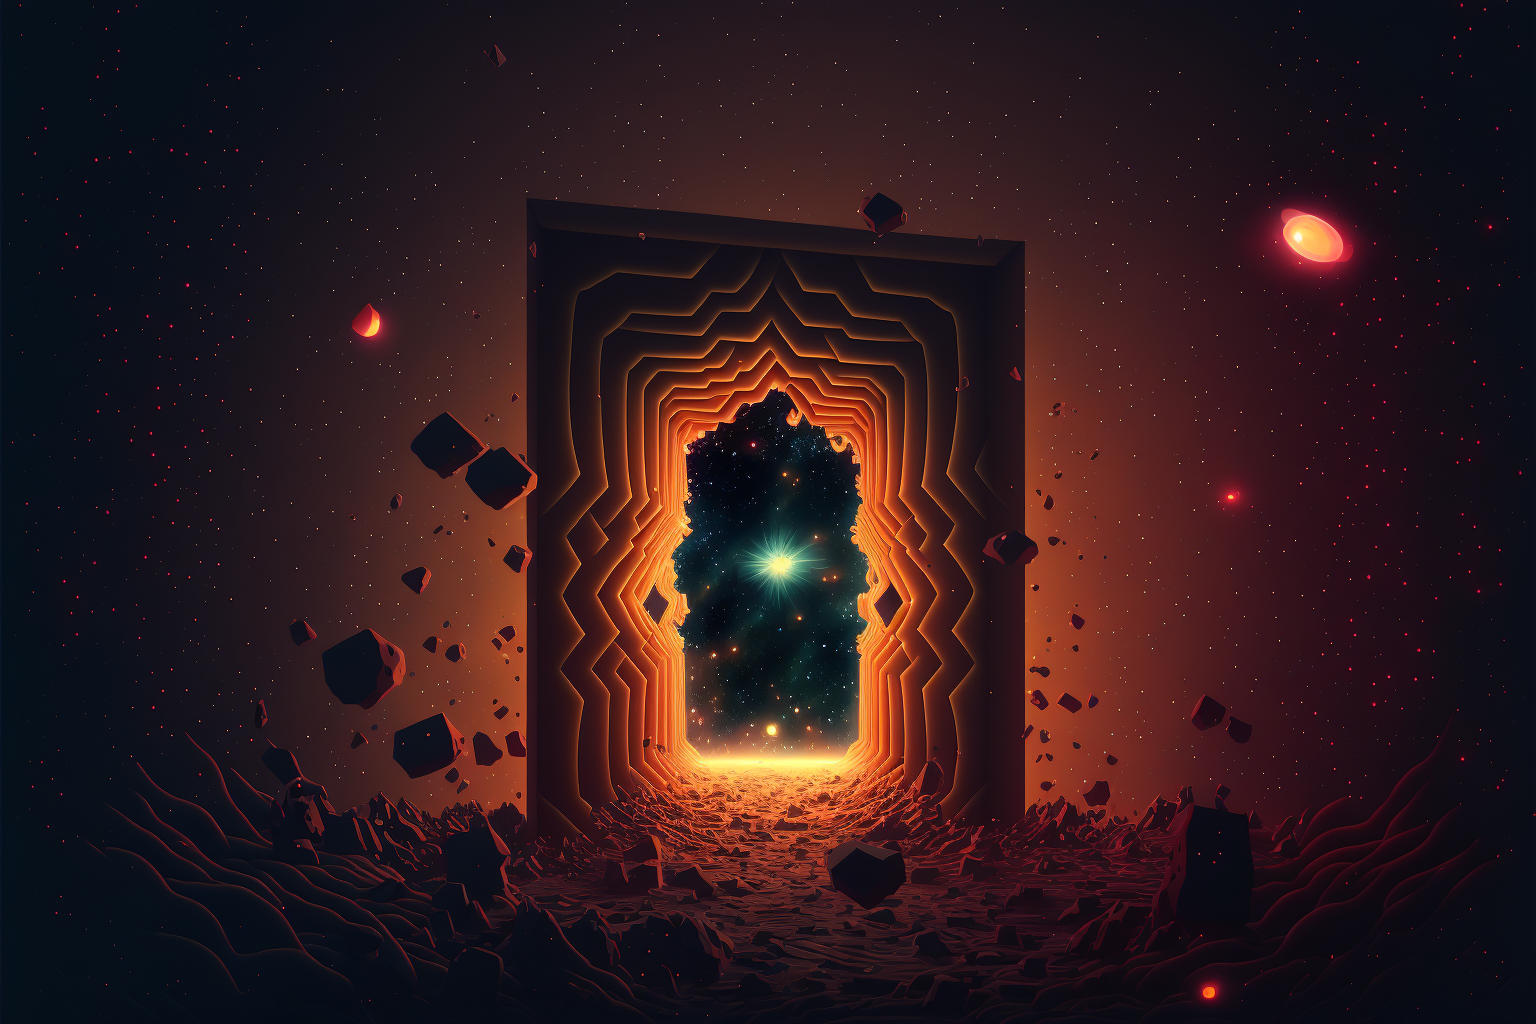
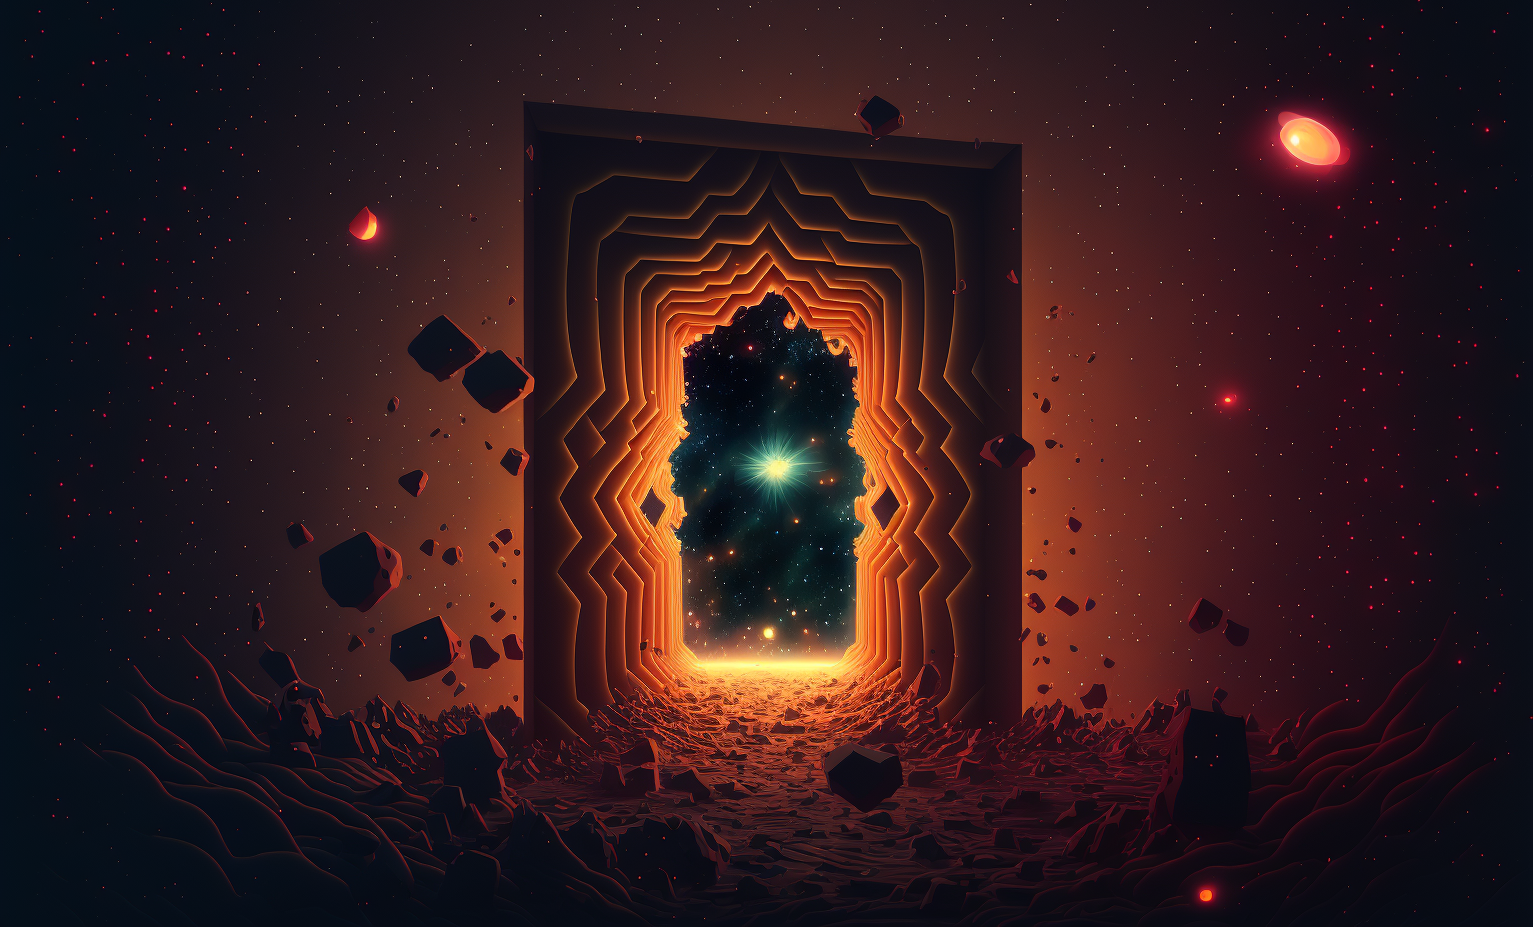
Update

diff --git a/M.A.S.A-Mostly Aimless Space Agency/js/index_js.js b/M.A.S.A-Mostly Aimless Space Agency/js/index_js.js
@@ -6,9 +6,9 @@ function redirect_Page () {
   }, 1500);
 }
 function click_keyhole(){ 
-  document.getElementById("gate_click").innerHTML="<img src=\"res\\rocket.png\" id=\"keyhole_transition\" style=\"width: 7%; margin-left: -34px; margin-top: 5px;\"><style>.main_hero{margin: -15px;height: 900px;width: 1362px;background-color: black;background-size: cover;}#keyhole_transition{    animation: pullout 1s 0.2s 1;} @keyframes pullout {0%{}50%{margin: -25%;width: 20%;}100%{margin-top: -250%; margin-left: 80%;width: 30%;}}</style>"
+  document.getElementById("gate_click").innerHTML="<img src=\"res\\rocket.png\" id=\"keyhole_transition\" style=\"width: 7%; margin-left: -34px; margin-top: 5px;\"><style>.main_hero{background-image:url(css/Entry.png);height: 100vh; background-size: cover;}#keyhole_transition{    animation: pullout 1s 0.2s 1;} @keyframes pullout {0%{}50%{margin: -25%;width: 20%;}100%{margin-top: -250%; margin-left: 80%;width: 30%;}}</style>"
   setInterval(() => {
-    document.getElementById("ok1").innerHTML="<style>.main_hero{margin: -15px; height: 900px;width: 1362px;background: black;background-size: cover;}</style>"		// clear time out.
+    document.getElementById("ok1").innerHTML="<style>.main_hero{background:black;height: 100vh; background-size: cover;}</style>"		// clear time out.
   
   }, 1000);
   redirect_Page()  

diff --git a/M.A.S.A-Mostly Aimless Space Agency/index.html b/M.A.S.A-Mostly Aimless Space Agency/index.html
@@ -1,10 +1,6 @@
-<html prefix="og: https://ogp.me/ns#">
+<!DOCTYPE html>
+<html lang="en">
 <head>
-<title>M.A.S.A-Mostly Aimless Space Agency</title>
-<meta property="og:title" content="M.A.S.A" />
-<meta property="og:type" content="article" />
-<meta property="og:url" content="https://dwij1704.github.io/M.A.S.A-Mostly%20Aimless%20Space%20Agency/index.html" />
-<meta property="og:image" content="res\LOGO.png" />
     <meta charset="utf-8">
     <meta name="viewport" content="width=device-width, initial-scale=1, shrink-to-fit=no">
     <link rel="stylesheet" href="css\index.css"/>
@@ -16,8 +12,7 @@
 </head>
 <body id="body_main">
     <div class="main_hero" id="ok1">
-        <style>.main_hero{
-        margin: -15px; height: 900px;width: 1362px;background: url(css/Entry.png);background-size: cover;}
+        <style>.main_hero{background-image:url(css/Entry.png);height: 100vh; background-size: cover;}
         </style>
           
           <nav class="navbar navbar-expand-lg bg-trasparent navbar-dark fixed-top">

diff --git a/M.A.S.A-Mostly Aimless Space Agency/about us.html b/M.A.S.A-Mostly Aimless Space Agency/about us.html
@@ -48,35 +48,6 @@
       <div class="layer"></div>
     </div><br><br><br>
       <br><br><br>
-      
-
-    <section class="section-a">
-      <div class="section-inner">
-        <h4>The Future Is Here</h4>
-        <h2>Swooshinator-420</h2>
-      </div>
-
-      <div class="scroll-arrow">
-        <svg width="30px" height="20px">
-          <path
-            stroke="#ffffff"
-            fill="none"
-            stroke-width="2px"
-            d="M2.000,5.000 L15.000,18.000 L28.000,5.000 "
-          ></path>
-        </svg>
-      </div>
-    </section>
-
-    <section class="section-c">
-      <div class="section-inner">
-        <h4>Computing</h4>
-        <h2>QT-23 Quantum Computer</h2>
-      </div>
-    </section>
-
-
-
       <div id="about_us" class="container">
         <img src="res/LOGO.png" style="width: 40%; height: 40%; float: right; margin-left: 20%;" alt="">
         <center>

diff --git a/M.A.S.A-Mostly Aimless Space Agency/css/index.css b/M.A.S.A-Mostly Aimless Space Agency/css/index.css
@@ -1,7 +1,7 @@
 #gate_click{
     /* background-color: red; */
     display: inline-block;
-    margin-top: 20rem;
+    margin-top: 15rem;
     margin-left: 37rem;
     padding-top: 8rem;
     padding-bottom: 10rem;
@@ -13,6 +13,24 @@
     opacity: 0.8;
     animation: wiggle 2s linear infinite;
 }
+body{
+overflow-y:hidden;
+
+cursor: url(/res/rocket.png), auto;
+}
+
+/* Sections */
+section {
+	position: relative;
+	height: 100vh;
+	background-position: center center;
+	background-repeat: no-repeat;
+	background-size: cover;
+	text-transform: uppercase;
+  }
+  /* Background images */
+  .section-a {box-shadow: 0px 50px 10px #00000077;
+  }
 #gate_click:hover #keyhole{
     visibility: visible;
 }
